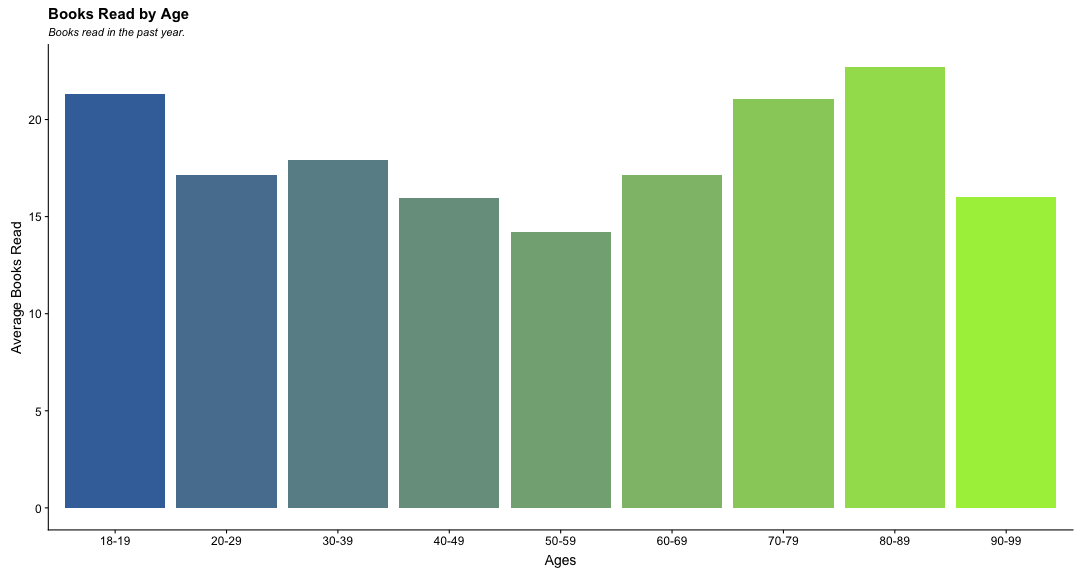
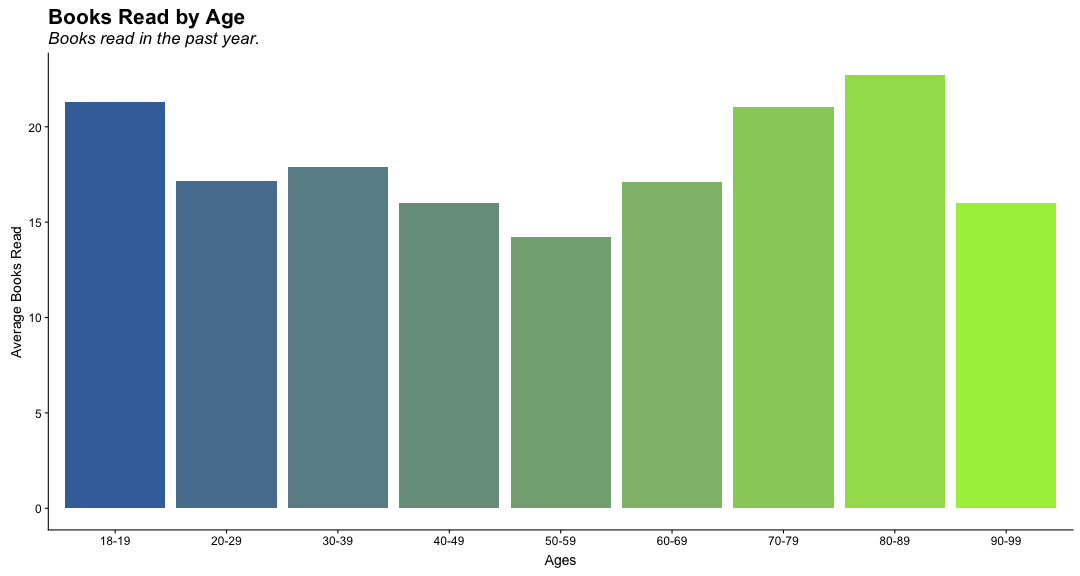
Made formatting prettier

diff --git a/index.html b/index.html
@@ -395,8 +395,7 @@ df %&lt;&gt;%
 
 
 
----
-# Tidying the Dataset
+--
 
 
 ```
@@ -446,9 +445,10 @@ Next, I came up with a question:
 
 - Namely, how might **frequency of social media use** vary as a function of **age**, **political party**, and **social media site**?
 
---
+---
+#More tidying?
 
-- Do I need to tidy the data any more?
+Inspect the current data:
 
 
 ```r
@@ -463,9 +463,47 @@ head(plot_data_ash, 1)
 ## # ... with 2 more variables: int_good_self &lt;fct&gt;, int_use_freq &lt;fct&gt;
 ```
 
+--
+
+Note that to get to this point, we first had to **convert** all necessary variables to factors:
+
+
+```r
+plot_data_ash %&lt;&gt;%
+  mutate(sex = factor(sex),
+         party = factor(party),
+         sns = factor(sns),
+         sns_freq_use = factor(sns_freq_use))
+```
+
 ---
 
-More data tidying:
+We also had to **recode** factor levels:
+
+
+```r
+plot_data_ash %&lt;&gt;%
+  mutate(party = fct_recode(party, 
+                            "Other" = "(VOL) Other party",
+                            "Other" = "(VOL) Don't know",
+                            "Other" = "(VOL) No preference",
+                            "Refused" = "(VOL) Refused"))
+
+plot_data_ash %&lt;&gt;%
+  mutate(sns_freq_use = factor(sns_freq_use,
+                               levels = c(
+                                 "(VOL) Don't know",
+                                 "Rarely if ever",
+                                 "Less often",
+                                 "Every few weeks",
+                                 "A few times a week", 
+                                 "About once a day", 
+                                 "Several times a day")))
+```
+
+---
+
+Final tidying:
 
 
 ```r
@@ -488,7 +526,7 @@ ggplot(plot_ash1, aes(x = age, y = sns_freq_use)) +
   facet_wrap(~sns, nrow = 1) +
   scale_colour_viridis_d() +
   theme_bw() +
-  labs(title = "Figure 2.",
+  labs(title = "Figure 1.",
        subtitle = "The relation between age and frequency of 
        social media use as a function of political party and 
        social media site",
@@ -542,7 +580,7 @@ ggplot(plot_ash1, aes(x = age, y = sns_freq_use)) +
   scale_color_manual(values = c("turquoise3", "purple3")) +
   facet_wrap(~sns, nrow = 1) +
   theme_bw(base_size = 21) +
-  labs(title = "Figure 3.",
+  labs(title = "Figure 2.",
        subtitle = "Relation between age and frequency of social 
        media use as a function of sex and social media site",
        x = "Age", 
@@ -681,8 +719,8 @@ bar_plot &lt;- plot_data %&gt;%
        x = "Ages",
        title = "Books Read by Age",
        subtitle = "Books read in the past year.") +
-  theme(plot.subtitle = element_text(size = 11, hjust = 0, face = "italic", color = "black"),
-        plot.title = element_text(size = 15, hjust = 0))
+  theme(plot.subtitle = element_text(size = 17, hjust = 0, face = "italic", color = "black"),
+        plot.title = element_text(size = 21, hjust = 0))
 ```
 
 ---
@@ -728,8 +766,8 @@ bar_plot2 &lt;- plot_data %&gt;%
        x = "Age Bin",
        title = "Average Books Read by Format",
        subtitle = "Average books read in past year.") +
-  theme(plot.subtitle = element_text(size = 11, hjust = 0, face = "italic", color = "black"),
-        plot.title = element_text(size = 15, hjust = 0),
+  theme(plot.subtitle = element_text(size = 17, hjust = 0, face = "italic", color = "black"),
+        plot.title = element_text(size = 21, hjust = 0),
         axis.text.x = element_text(angle = 90, vjust = .5)) # Rotate and center text
 ```
 
